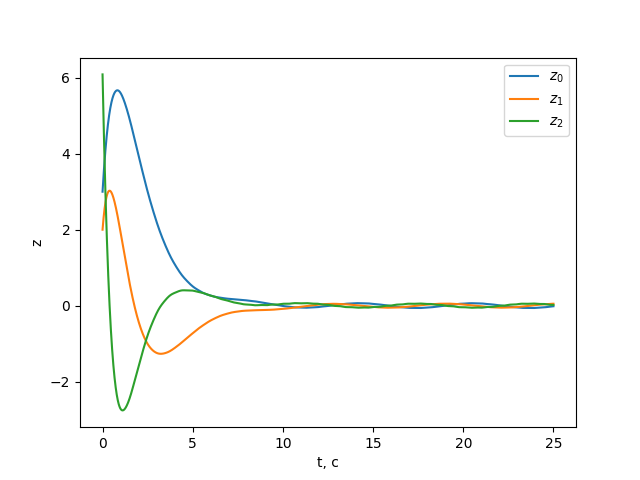
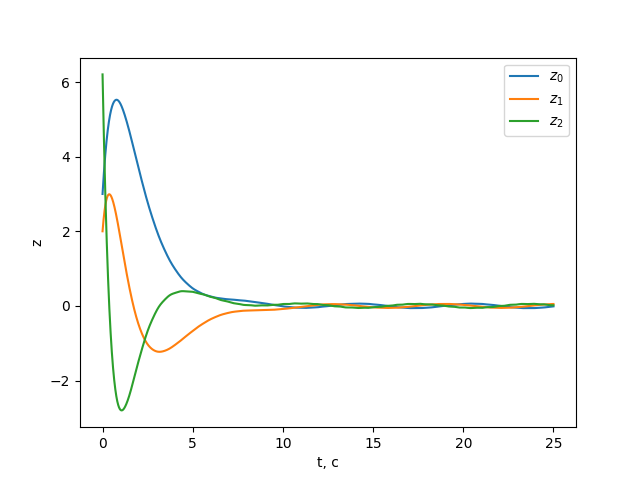
lab 11 edit

diff --git a/lab11/task4.py b/lab11/task4.py
@@ -67,7 +67,7 @@ for i in range(3):
     print('\n______________________________')
     print(f'-----------VAR_{i + 1}, gamma={gammas[i]}----------\n')
     print('\n\subsubsubsection{gamma = ' + str(gammas[i]) + '}')
-    K, L, Q = generate_Hinf_obs(A, B_1, B_2, C_1, C_2, D_1, D_2, gamma)
+    K, L, Q = generate_Hinf_obs(A, B_1, B_2, C_1, C_2, D_1, D_2, gammas[i])
     print(f'spec(A-B_2 K) = {np.linalg.eigvals(A - B_2 @ K)}')
     print(f'K = {a2l.to_ltx(K, print_out=False)}')
     print(f'spec(A + B_2K)={np.linalg.eigvals(A + B_2 @ K)}')
